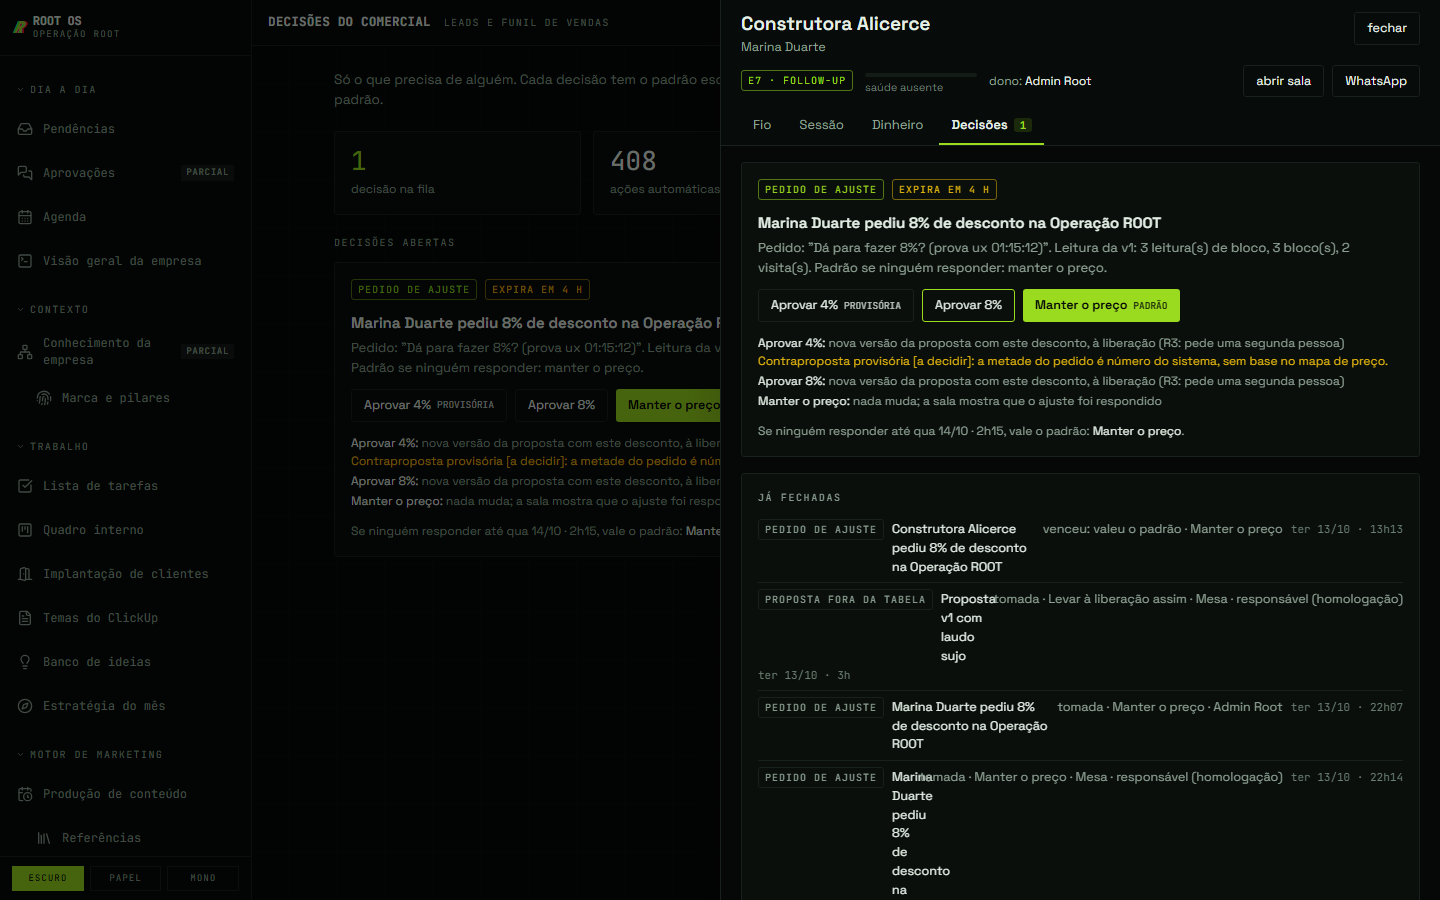
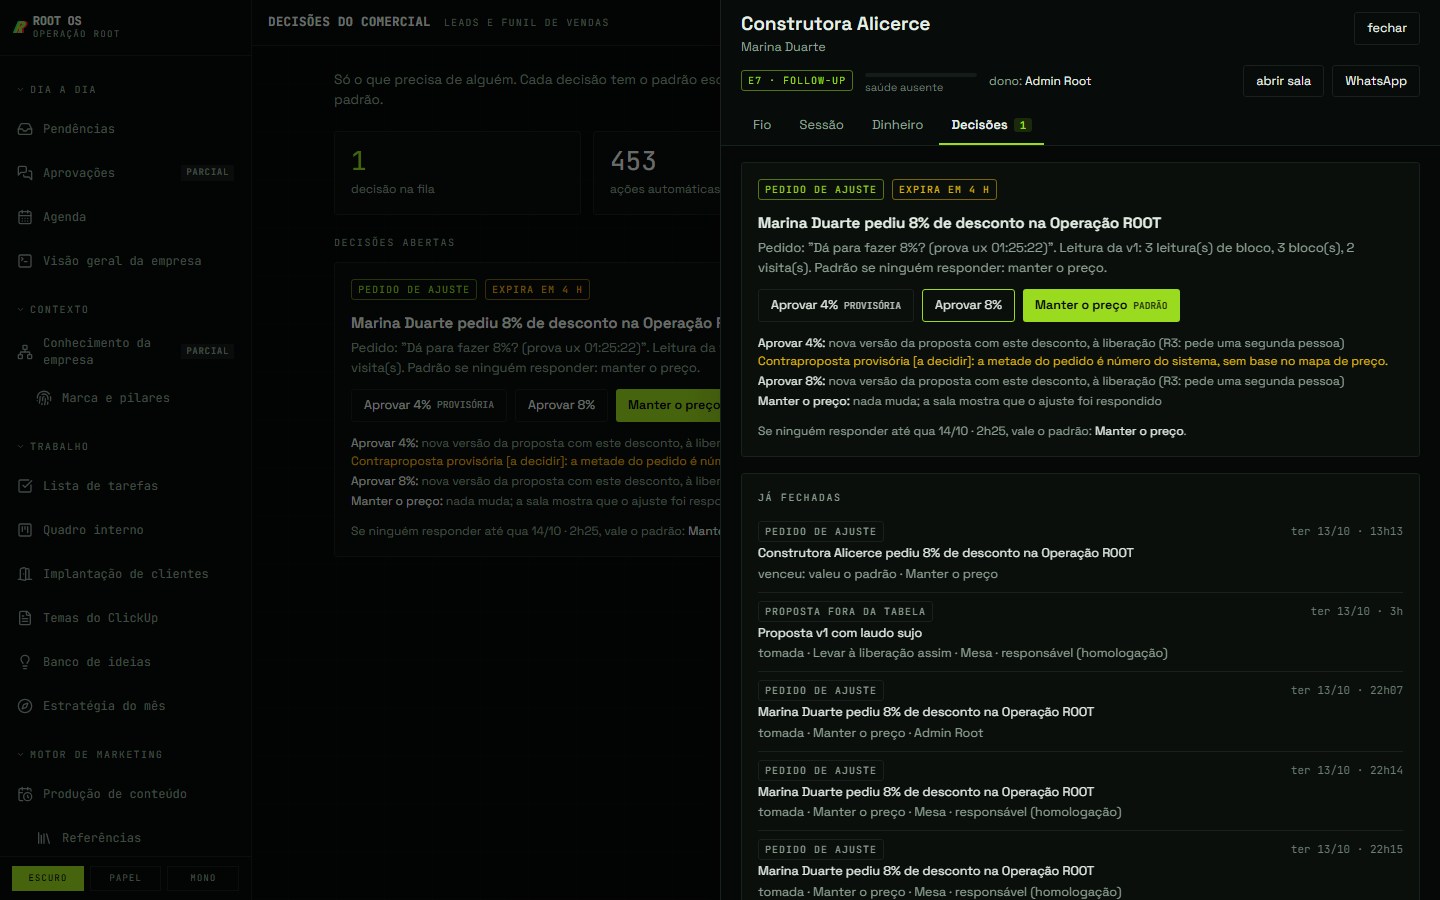
Cockpit do lead (lane UX): RESULTADO-UX com o painel, a passada tela a tela, as provas e o que fica a decidir

diff --git a/homolog/RESULTADO-UX.md b/homolog/RESULTADO-UX.md
@@ -1,0 +1,114 @@
+# RESULTADO da lane UX · o cockpit do lead sem sair da tela
+
+> Rodada 6, de 21:30 às 23:30 de 13/10/2026. Imagem final construída do commit 7159330 (o fechamento só acrescenta este documento e o README). Branch `comercial/cockpit-homolog`, sobre a entrega `comercial-entrega-20261013`. Tag `comercial-ux-20261013`. Bundle em `C:\Users\User\dev\rootos-comercial.bundle` (`main..comercial/cockpit-homolog`).
+> Roteiro: `docs/comercial/UX-COCKPIT.md`. Registro linha a linha: `homolog/progresso.md` (linhas "Lane UX"). Só o web mudou, mais um build arg no `Dockerfile` e no compose da homologação. A API, o shared e a política não mudaram: nenhuma rota nova, nenhum contrato alterado.
+
+## 1. O painel do lead
+
+Pedido do Rodrigo: agir num lead abre um painel por cima da tela, em vez de levar a outra subseção.
+
+- **Um componente só**, em `apps/web/src/app/comercial/_painel/`. O provedor mora no layout de `/comercial` (`comercial/layout.tsx`), então fila, funil, contratos, torre, relatório e simulador abrem o mesmo painel.
+  - **Desktop:** painel à direita, `min(720px, 90vw)`.
+  - **Celular:** folha de baixo para cima, na tela inteira.
+- **As abas:**
+  - **Fio** (era a tela 05): ficha projetada, próxima ação, portão, o fio do mais recente para o primeiro contato, "ligado a", saída com motivo.
+  - **Sessão** (era a 06): ata, diagnóstico com minuto, aprovar, proposta, laudo, segurar, liberar, versões.
+  - **Dinheiro** (eram as 08, 10 e 11): aceite e cobrança, parcelas e régua, documento e assinaturas com "Assinar pela Root", as cinco escritas do fechamento e o contrato vivo.
+  - **Decisões** (era a 03): as abertas do lead com os botões de um toque e as já fechadas.
+  - As abas chamam as mesmas rotas de antes. Nenhuma grava etapa nem contorna portão.
+- **Estado na URL:** `?lead=<id>&aba=fio|sessao|dinheiro|decisoes`.
+  - Abrir por clique empilha uma entrada no histórico; trocar de aba substitui.
+  - Fechar volta quando o painel veio de um clique e, se não veio, só limpa a query. O resto da query (o filtro do funil) fica.
+  - O voltar do navegador fecha o painel.
+  - Os links são links de verdade: o botão do meio e o Ctrl abrem em outra aba.
+  - O histórico é escrito com estado `null`, o que faz o Next 15 sincronizar o `useSearchParams` (conferido em `next/dist/client/components/app-router.js`).
+- **As rotas antigas redirecionam, no servidor:**
+
+  | Rota antiga | Destino |
+  |---|---|
+  | `/comercial/lead/[id]` | `/comercial/funil?lead=<id>&aba=fio` |
+  | `/sessao` | `aba=sessao` |
+  | `/fechamento` | `aba=dinheiro` |
+  | `/comercial/contratos/[leadId]` | `/comercial/contratos?lead=<id>&aba=dinheiro` |
+
+- **Acessibilidade:**
+  - O painel é `role="dialog"` com `aria-modal` e `aria-labelledby` apontando para o nome do lead, que é o único `h2` do painel; as seções descem para `h3`.
+  - As abas são `tablist`/`tab`/`tabpanel`, com setas, Home e End.
+  - O foco entra no título, fica preso dentro e volta a quem abriu.
+  - A página de trás fica `inert` e sem rolagem, sem salto de layout (a largura da barra de rolagem é compensada).
+  - `Esc`, o clique no fundo, o botão fechar, o voltar do navegador e a troca de aba perguntam antes de perder texto digitado e não salvo. Sem texto pendente, não perguntam.
+  - O corpo da aba rola pelo teclado.
+  - Depois de uma ação que some com o botão focado, o foco vai ao título do painel.
+- **Ação e retorno dentro do painel:**
+  - O resultado aparece no lugar: o chip muda e o fio ganha a linha.
+  - Um aviso curto no canto traz o texto da API (o efeito da opção, por exemplo). Com o painel aberto, os avisos moram dentro do diálogo e não seguram o toque.
+  - Erro de ação mostra a frase e o código da API ao lado do botão. O botão em andamento fica desligado com "…".
+- **Recarregar só o que mudou:**
+  - Depois da ação, o painel relê o lead (uma chamada) e as decisões.
+  - A tela de trás relê a lista sem piscar.
+  - `useCarregar` passou a deixar só o pedido mais recente escrever, para o tique periódico não pôr estado velho de volta.
+
+## 2. O que mudou tela a tela
+
+| Tela | O que mudou |
+|---|---|
+| 03 fila (`/comercial`) | O cartão é o `CartaoDeDecisao` comum (`comercial/_decisao.tsx`). "<lead> · ver o lead" abre o painel na aba Decisões. Decidir tira o cartão com uma transição curta e um aviso com o efeito. O vazio diz quantas ações rodaram sozinhas hoje. "Rodou sozinho hoje" abre o lead no painel. Erro com "tentar de novo". |
+| 04 funil | Clicar no cartão abre a aba Fio. As setas andam entre cartões (cima e baixo na coluna, para os lados entre colunas) e Enter abre. O arraste continua bloqueado, com o portão. Filtros e "mover" com 44 px no celular. O texto do topo explica como abrir. |
+| 11a contratos | A linha abre a aba Dinheiro. |
+| 12 torre | Os leads das premissas quebradas abrem no painel. Datas como "ter 13/10 · 20h12". Erro com "tentar de novo". |
+| 13 relatório | "Propostas vencendo" abre a aba Sessão. O topo diz em uma linha o que a tela é. "Gerar agora" no imperativo. Datas curtas. |
+| simulador | No celular da mesa, "abrir no cockpit" leva à fila com o painel aberto na aba Decisões. `?conversa=<id>` abre a conversa (é o destino do botão WhatsApp do painel). A etapa aparece pelo rótulo da casa. Botões "Liberar envio", "Abrir na fila", "Vetar". |
+| todas | Datas como "qui 15/10 · 10h" (`quandoCurtoSP`). Prazos em palavras (`prazoEmPalavras`: "em 4 h", "vence hoje 18h"; a sentinela 9999 vira "sem prazo"). `tabular-nums` nos números. Esqueleto de carregamento do tamanho do conteúdo. Erro com frase, código e "tentar de novo". O nível da régua vindo da API ganha o que ele pede ("R3: pede uma segunda pessoa", "R4: pede a titular, com senha"). A chave de sistema no fio vira o nome da casa ("Proposta → Follow-up", "pedido de ajuste", "kit e trilho"). Botões com 44 px no celular. |
+| tema claro | O `--os-tx3` (legenda) dava 4,47:1 sobre o fundo e passou a cerca de 5,1:1. Vale para o OS inteiro no tema claro; o escuro já dava 4,67:1 e não mudou. |
+| topbar | O título é o da tela de fundo (o pathname não muda mais para as subpáginas). O painel leva o nome do lead no próprio cabeçalho. |
+| raiz `/` | Com `NEXT_PUBLIC_RAIZ=login` (build arg no `Dockerfile` e no compose da homologação), `/` abre o `/login`. Em produção o arg fica vazio e a raiz continua no site. |
+
+## 3. Provas
+
+| Prova | Resultado |
+|---|---|
+| `pnpm --filter @mktos/web typecheck` | limpo |
+| Suíte do web | 67 arquivos, 884/884 (antes dos últimos ajustes de layout; as três suítes do comercial, 41/41, depois deles) |
+| `tests/component/comercial-painel.test.tsx` | 17 casos: abre pela URL; abrir empilha uma entrada e trocar de aba substitui; Esc fecha e o foco volta; o fundo fecha (com confirmação só com texto); o foco fica preso; decidir no painel relê o lead uma vez e o fio ganha a linha sem navegar; o voltar fecha; troca de aba e voltar com texto perguntam; só um `h2`; `useCarregar` na ordem; funil pelo teclado; as quatro rotas antigas |
+| `tests/unit/comercial-painel-estado.test.ts` | 8 casos (query, rotas antigas, WhatsApp, datas, prazos, nível da régua, chaves) |
+| `homolog/e2e/ux-painel.mjs` contra o Docker | PASSA na imagem final, 13 passos em 22,1 s (ver abaixo). Prova em `homolog/provas/ux-painel.json` |
+| Screenshots | `homolog/provas/ux-*.png`: fila com o painel (Decisões), funil com o painel (Fio), Sessão, Dinheiro da Alicerce, contratos com o painel (Dinheiro de um lead fechado), celular com a folha, cada um em escuro e claro |
+| `homolog/e2e/jornada-docker.mjs` | PASSA na imagem final: 13 toques humanos, 19,3 s, funil 10 → 11 (na imagem anterior, 30,4 s, 29 de 53 automáticos) |
+| Revisão adversarial do painel | Um subagente, só leitura, com 18 achados (1 P1, 7 P2, 10 P3). Todos consertados, exceto: o P3-16 foi consertado no tema e não no componente; o P2-7 e o P2-6 ficaram com o texto honesto em vez de rota nova (seção 4) |
+
+Os 13 passos do `ux-painel.mjs`:
+
+1. A mesa entra pela API.
+2. A Alicerce pede 8% pela sala e a decisão abre na fila.
+3. Na fila, "ver o lead" abre o painel na aba Decisões. A URL só muda na query e um marcador no `window` prova que a página não recarregou.
+4. "Manter o preço" dentro do painel mostra o aviso no canto.
+5. O cartão sai da fila de trás.
+6. O fio ganha a linha da decisão.
+7. Esc fecha, a URL volta e o foco volta.
+8. No funil, as setas chegam à Alicerce e Enter abre o painel na aba Fio.
+9. A lista de contratos abre a aba Dinheiro.
+10. A rota antiga do lead cai no funil com o painel aberto.
+11. A rota antiga `/sessao` abre a aba Sessão.
+12. `/` abre o `/login`.
+13. No celular (390 px), a folha ocupa 390×844, não há rolagem horizontal e "fechar" tem 44 px.
+
+## 4. [a decidir] e pendências com estado exato
+
+- **Link da sala fora do provedor simulado:** hoje só a rota do simulador reescreve o link. Com outro provedor, o cabeçalho diz "sala aberta, link indisponível" em vez de inventar ou dizer "ausente". Expor o link a quem tem `leads.ver` por uma rota própria é decisão, porque o token é a chave da sala. [a decidir]
+- **Decisões por lead:** a API não filtra por lead e para em 200 por empresa. O painel pede as abertas com `?estado=aberta` e, quando a lista geral bate em 200, avisa que as fechadas podem estar incompletas. Um `?leadId=` na API resolveria. Não entrou porque a lane só muda o web, salvo prova de necessidade, e o aviso cobre o caso.
+- **Sala do cliente (`/s/[token]`) fora da passada:** é a tela do cliente, da lane B. A passada do §4 cobriu as telas do cockpit.
+- **Dois funis no menu (C-21):** continua decisão de produto; o NAV não mudou.
+- **Dependência:** o web já tinha `@radix-ui/react-dialog` no `package.json`. O painel não a usa: é componente próprio, como o roteiro pede.
+- **A decisão da 1ª execução do roteiro** (a que parou no `h2` repetido antes de decidir) não ficou aberta: o fio da Alicerce a mostra tomada às 22h09 por "Admin Root (simulado)", o canal do simulador da mesa. Esta lane não registrou quem a respondeu. A fila terminou vazia.
+- **O roteiro escreve na Alicerce:** cada execução do `ux-painel.mjs` registra na Alicerce da semente um pedido de ajuste e a decisão "manter". Isso entra no fio dela, como a jornada faz com os leads que cria.
+- Os pontos de antes da lane (baseline vermelho no Windows, chaves e contas do Rodrigo, números da régua) seguem como estão em `homolog/RESULTADO.md` §7 e §8.
+
+## 5. Como testar em 5 minutos
+
+1. Abra `http://100.95.41.124:3010/` (Tailscale) ou `http://127.0.0.1:3010/`. A raiz abre o login. Entre como `mesa@root.homolog` com a `ADMIN_PASSWORD` de `homolog/.env.homolog`.
+2. Em `/comercial`, clique em "<lead> · ver o lead" num cartão: o painel abre por cima da fila na aba Decisões. Responda com um toque. O aviso aparece no canto e o cartão sai da fila de trás. Na aba Fio, a linha nova aparece no topo.
+3. Feche com `Esc`: a fila está como estava.
+4. Em `/comercial/funil`, ligue um filtro, clique num cartão e troque de aba. Repare que a URL só ganha `?lead=&aba=` e que, ao fechar, o filtro continua lá. Pelo teclado: Tab até um cartão, setas, Enter.
+5. Cole na barra um link antigo, `/comercial/lead/<id>`: ele cai no funil com o painel aberto.
+6. No celular (ou com a janela em 390 px), abra um cartão: a folha sobe na tela inteira, as abas rolam na horizontal e "fechar" fica no alto.
+7. Para a prova automática: `node homolog/e2e/ux-painel.mjs` (cerca de 20 s, com o Playwright de `C:\Users\User\dev\pw-tools`).

diff --git a/homolog/progresso.md b/homolog/progresso.md
@@ -132,3 +132,4 @@
 - 2026-10-13 22:40 · Lane UX · revisão adversarial do painel (subagente, só leitura; 18 achados) e consertos: P1-1 o corpo da aba tem tabIndex 0 (rola pelo teclado mesmo sem nada focável); P2-2 o voltar do navegador com texto digitado pergunta e, recusado, devolve a entrada; P2-3 trocar de aba com texto pergunta; P2-4 a ata é uma instância só na mesma posição (o diagnóstico que chega no meio da digitação muda a ordem por CSS, não desmonta); P2-5 useCarregar: só o pedido mais recente escreve; P2-6 as decisões abertas do lead vêm de ?estado=aberta e a lista geral avisa quando bate no teto de 200 da API; P2-7 com sala aberta e sem link (fora do simulador) o cabeçalho diz 'sala aberta, link indisponível', não 'ausente'; P2-8 depois da ação o foco vai ao título do painel; P3-9 pushState/replaceState com estado null (com o __NA do Next ele não sincronizava useSearchParams; conferido em next/dist/client/components/app-router.js); P3-10 com o painel aberto os avisos moram dentro do diálogo; P3-11 Esc em composição de acento não fecha; P3-12 o aviso não segura o toque (só o x, com 44 px), safe-area no fim da folha, 'mover' do funil com 44 px; P3-13 sem ficha a aba Dinheiro diz ausente; P3-14 assinar pela Root avisa no canto e relê; P3-15 torre e relatório releem com o painel; P3-17 WhatsApp do simulador por Link do Next; P3-18 o título nasce 'Lead'. Dentro do painel as seções viram h3 (NivelDoRotulo): o nome do lead é o único h2. P3-16 (contraste do text-dim no claro) fica para a passada de tema. comercial-painel 17/17 (4 casos novos), cockpit 16/16, tsc limpo. Primeira execução do ux-painel.mjs contra a imagem anterior achou o h2 repetido (consertado aqui).
 - 2026-10-13 22:44 · Lane UX · §4.6 tema: o --os-tx3 do tema claro (text-dim) ia a 4,47:1 sobre o fundo, abaixo de 4,5:1 em texto pequeno; virou 92 98 80 (~5,1:1). Vale para o OS inteiro no tema claro (só escurece a legenda); o escuro já dava 4,67:1 e não mudou.
 - 2026-10-13 23:05 · Lane UX · provas na imagem de a87076c: homolog/e2e/ux-painel.mjs PASSA (13 passos, 19,4 s, 12 screenshots ux-*.png nos dois temas; da fila a Alicerce abre no painel, 'manter o preço' dentro do painel tira o cartão da fila e põe a linha no fio sem recarregar, Esc devolve a URL e o foco, funil pelo teclado, rotas antigas, raiz no /login, folha de 390 px com fechar de 44 px e sem rolagem horizontal); jornada-docker PASSA (13 toques, 30,4 s, funil 9 → 10); suíte do web 67 arquivos 884/884. Ajustes vistos nos screenshots: a lista 'já fechadas' do painel se sobrepunha (virou bloco em três linhas), o título focado mostrava contorno no tema claro, a data da tabela da proposta saía crua (2026-10-04 vira 04/10). Uma decisão de ajuste da Alicerce ficou aberta na fila: a da 1ª execução do roteiro, que parou no h2 repetido antes de decidir.
+- 2026-10-13 23:30 · Lane UX · fechamento: imagem final (do 7159330) de pé, health 200, / → /login; ux-painel.mjs PASSA (13 passos, 22,1 s, 12 screenshots refeitos), jornada-docker PASSA (13 toques, 19,3 s, funil 10 → 11). Correção do registro de 23:05: a decisão da 1ª execução do roteiro não ficou aberta; o fio a mostra tomada às 22h09 por 'Admin Root (simulado)', e a fila terminou vazia. homolog/RESULTADO-UX.md escrito; README aponta para ele. Tag comercial-ux-20261013 e bundle main..comercial/cockpit-homolog.

diff --git a/homolog/README.md b/homolog/README.md
@@ -2,7 +2,7 @@
 
 Ambiente de homologação do módulo comercial do ROOT OS: projeto Docker próprio (`rootos-comercial`), sem rede, volume ou porta compartilhados com outro projeto da máquina. Não é produção.
 
-O estado da entrega, as pendências e a lista do que depende do Rodrigo estão em `homolog/RESULTADO.md`. O registro linha a linha está em `homolog/progresso.md`. Os laudos da revisão adversarial estão em `homolog/revisao/`.
+O estado da entrega, as pendências e a lista do que depende do Rodrigo estão em `homolog/RESULTADO.md`. O painel do lead e a passada de UX (lane UX, 13/10) estão em `homolog/RESULTADO-UX.md`; a prova no navegador é `node homolog/e2e/ux-painel.mjs`. O registro linha a linha está em `homolog/progresso.md`. Os laudos da revisão adversarial estão em `homolog/revisao/`.
 
 ## 1. Subir do zero
 
